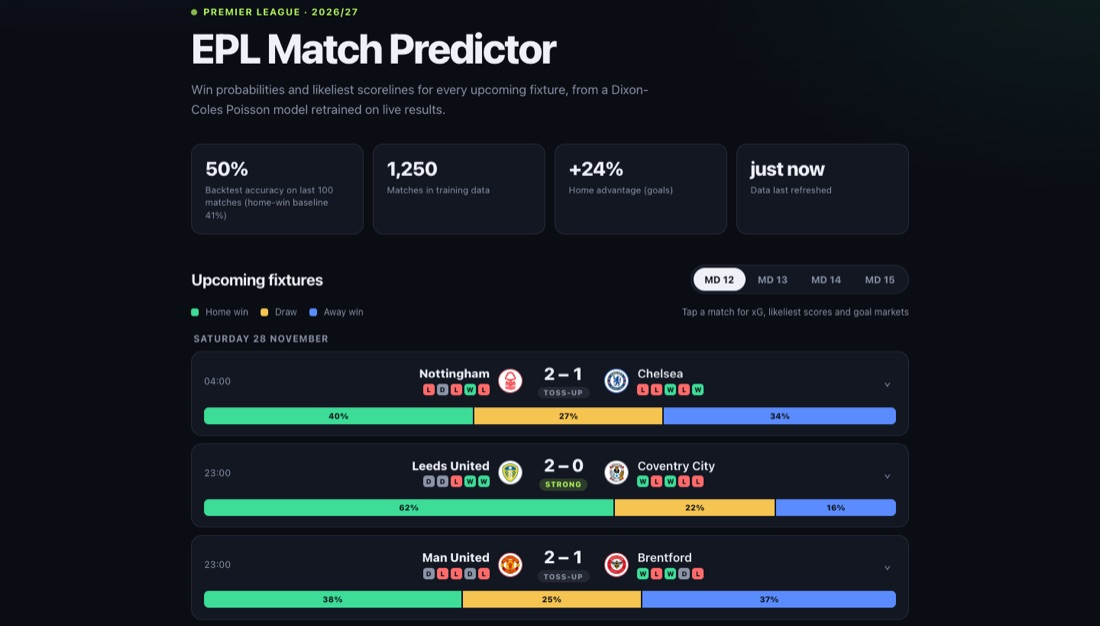
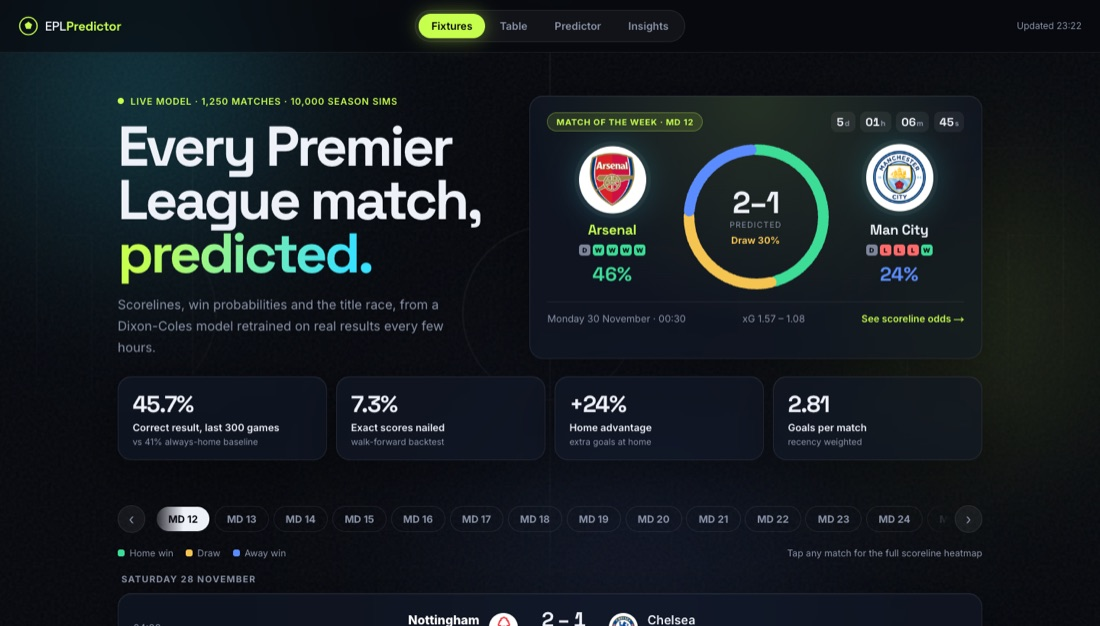
Refresh EPL Predictor card: new design screenshot and backtest figure

diff --git a/index.html b/index.html
@@ -19,7 +19,7 @@
     <link rel="preconnect" href="https://fonts.gstatic.com" crossorigin>
     <link href="https://fonts.googleapis.com/css2?family=DM+Mono:wght@400;500&family=Manrope:wght@400;500;600;700;800&display=swap" rel="stylesheet">
     <script>try{var t=localStorage.getItem('theme');if(t)document.documentElement.dataset.theme=t;}catch(e){}</script>
-    <link rel="stylesheet" href="css/styles.css?v=14">
+    <link rel="stylesheet" href="css/styles.css?v=15">
 </head>
 <body>
     <svg width="0" height="0" style="position:absolute" aria-hidden="true">
@@ -233,7 +233,7 @@
                         </a>
                         <div class="project-info">
                             <div><span class="project-number">03</span><h3>EPL Match Predictor</h3></div>
-                            <p>A self-refreshing FastAPI service pulls four seasons of live Premier League results and fits a Dixon-Coles Poisson model with opponent-adjusted, recency-weighted team ratings, serving win probabilities, xG and likeliest scores to a Next.js dashboard. Beats a home-win baseline 50% to 41% in walk-forward backtests.</p>
+                            <p>A self-refreshing FastAPI service pulls four seasons of live Premier League results and fits a Dixon-Coles Poisson model with opponent-adjusted, recency-weighted team ratings, serving win probabilities, xG and likeliest scores to a Next.js dashboard. Simulates the rest of the season 10,000 times for title and relegation odds, and beats a home-win baseline (45.7% vs 41%) in a 300-match walk-forward backtest.</p>
                             <div class="tag-row"><span>Python</span><span>FastAPI</span><span>Next.js</span><span>Dixon-Coles</span></div>
                             <div class="project-links">
                                 <a class="pill-link pill-solid" href="https://epl-predictor-two.vercel.app" target="_blank" rel="noreferrer">Live demo <span aria-hidden="true">↗</span></a>
@@ -352,6 +352,6 @@
     </dialog>
 
     <div class="toast" id="toast" role="status" aria-live="polite"></div>
-    <script type="module" src="js/scripts.js?v=14"></script>
+    <script type="module" src="js/scripts.js?v=15"></script>
 </body>
 </html>
